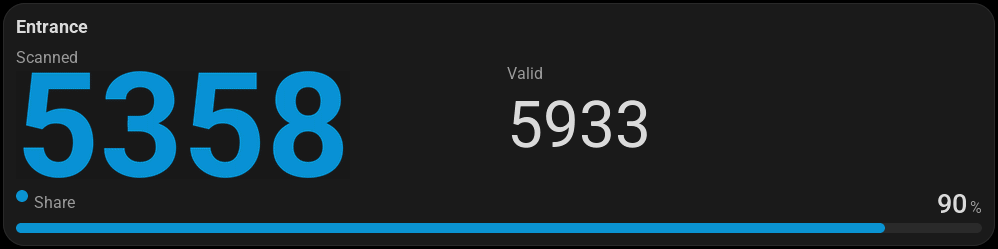
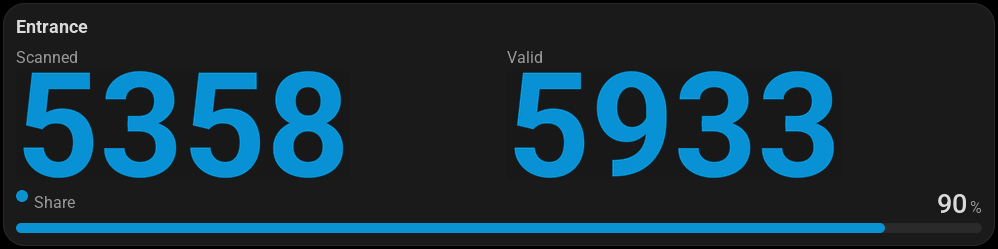
0.7.0: the README's example of counts as pictures draws both counts as pictures

Changed region(s): [[0.497, 0.2811, 0.8387, 0.7309], [0.497, 0.1968, 0.5591, 0.253]]

diff --git a/README.de.md b/README.de.md
@@ -188,7 +188,7 @@ Das Bild muss jemand zeichnen: Hier holt es ein Template-Image von einem kleinen
 ([examples/value-image](examples/value-image)); jede Bild-Entität geht genauso. Die Zählung ist die Marke des Teils:
 Ändert sie sich, ist die Adresse des Bildes neu, und wo es keine Bilder gibt, steht sie als Wert.
 
-![Eine Zählung als Bild auf einer 4x2-Kachel](docs/examples/counts-image.png)
+![Zwei Zählungen als Bilder auf einer 4x2-Kachel](docs/examples/counts-image.png)
 
 ```yaml
 template:
@@ -197,6 +197,10 @@ template:
         default_entity_id: image.zaehlung_gescannt
         verify_ssl: false
         url: "http://192.168.1.20:8765/value.png?ink=300&text={{ states('sensor.einlass_gescannt') | int(0) }}"
+      - name: Zählung gültig
+        default_entity_id: image.zaehlung_gueltig
+        verify_ssl: false
+        url: "http://192.168.1.20:8765/value.png?ink=300&text={{ states('sensor.einlass_gueltig') | int(0) }}"
   - sensor:
       - name: Einlass-Karte
         state: "{{ states('sensor.einlass_gescannt') }}"
@@ -206,7 +210,7 @@ template:
             {% set v = states('sensor.einlass_gueltig') | int(0) %}
             {{ [
               'image|' ~ s ~ '|zaehlung_gescannt|Gescannt',
-              'value|' ~ v ~ '||Gültig',
+              'image|' ~ v ~ '|zaehlung_gueltig|Gültig',
               'bar|' ~ ((100 * s / v) | round(0) | int if v else 0) ~ '|%|Anteil|blue||0|100'
             ] }}
 ```

diff --git a/README.md b/README.md
@@ -185,7 +185,7 @@ picture: here a template image fetches it from a small service in the house that
 ([examples/value-image](examples/value-image)); any image entity works the same way. The count is the part's mark: it
 makes the address new when it changes, and it stands as a value where there are no pictures.
 
-![A count drawn as a picture on a 4x2 tile](docs/examples/counts-image.png)
+![Two counts drawn as pictures on a 4x2 tile](docs/examples/counts-image.png)
 
 ```yaml
 template:
@@ -194,6 +194,10 @@ template:
         default_entity_id: image.count_scanned
         verify_ssl: false
         url: "http://192.168.1.20:8765/value.png?ink=300&text={{ states('sensor.entrance_scanned') | int(0) }}"
+      - name: Count valid
+        default_entity_id: image.count_valid
+        verify_ssl: false
+        url: "http://192.168.1.20:8765/value.png?ink=300&text={{ states('sensor.entrance_valid') | int(0) }}"
   - sensor:
       - name: Entrance card
         state: "{{ states('sensor.entrance_scanned') }}"
@@ -203,7 +207,7 @@ template:
             {% set v = states('sensor.entrance_valid') | int(0) %}
             {{ [
               'image|' ~ s ~ '|count_scanned|Scanned',
-              'value|' ~ v ~ '||Valid',
+              'image|' ~ v ~ '|count_valid|Valid',
               'bar|' ~ ((100 * s / v) | round(0) | int if v else 0) ~ '|%|Share|blue||0|100'
             ] }}
 ```
